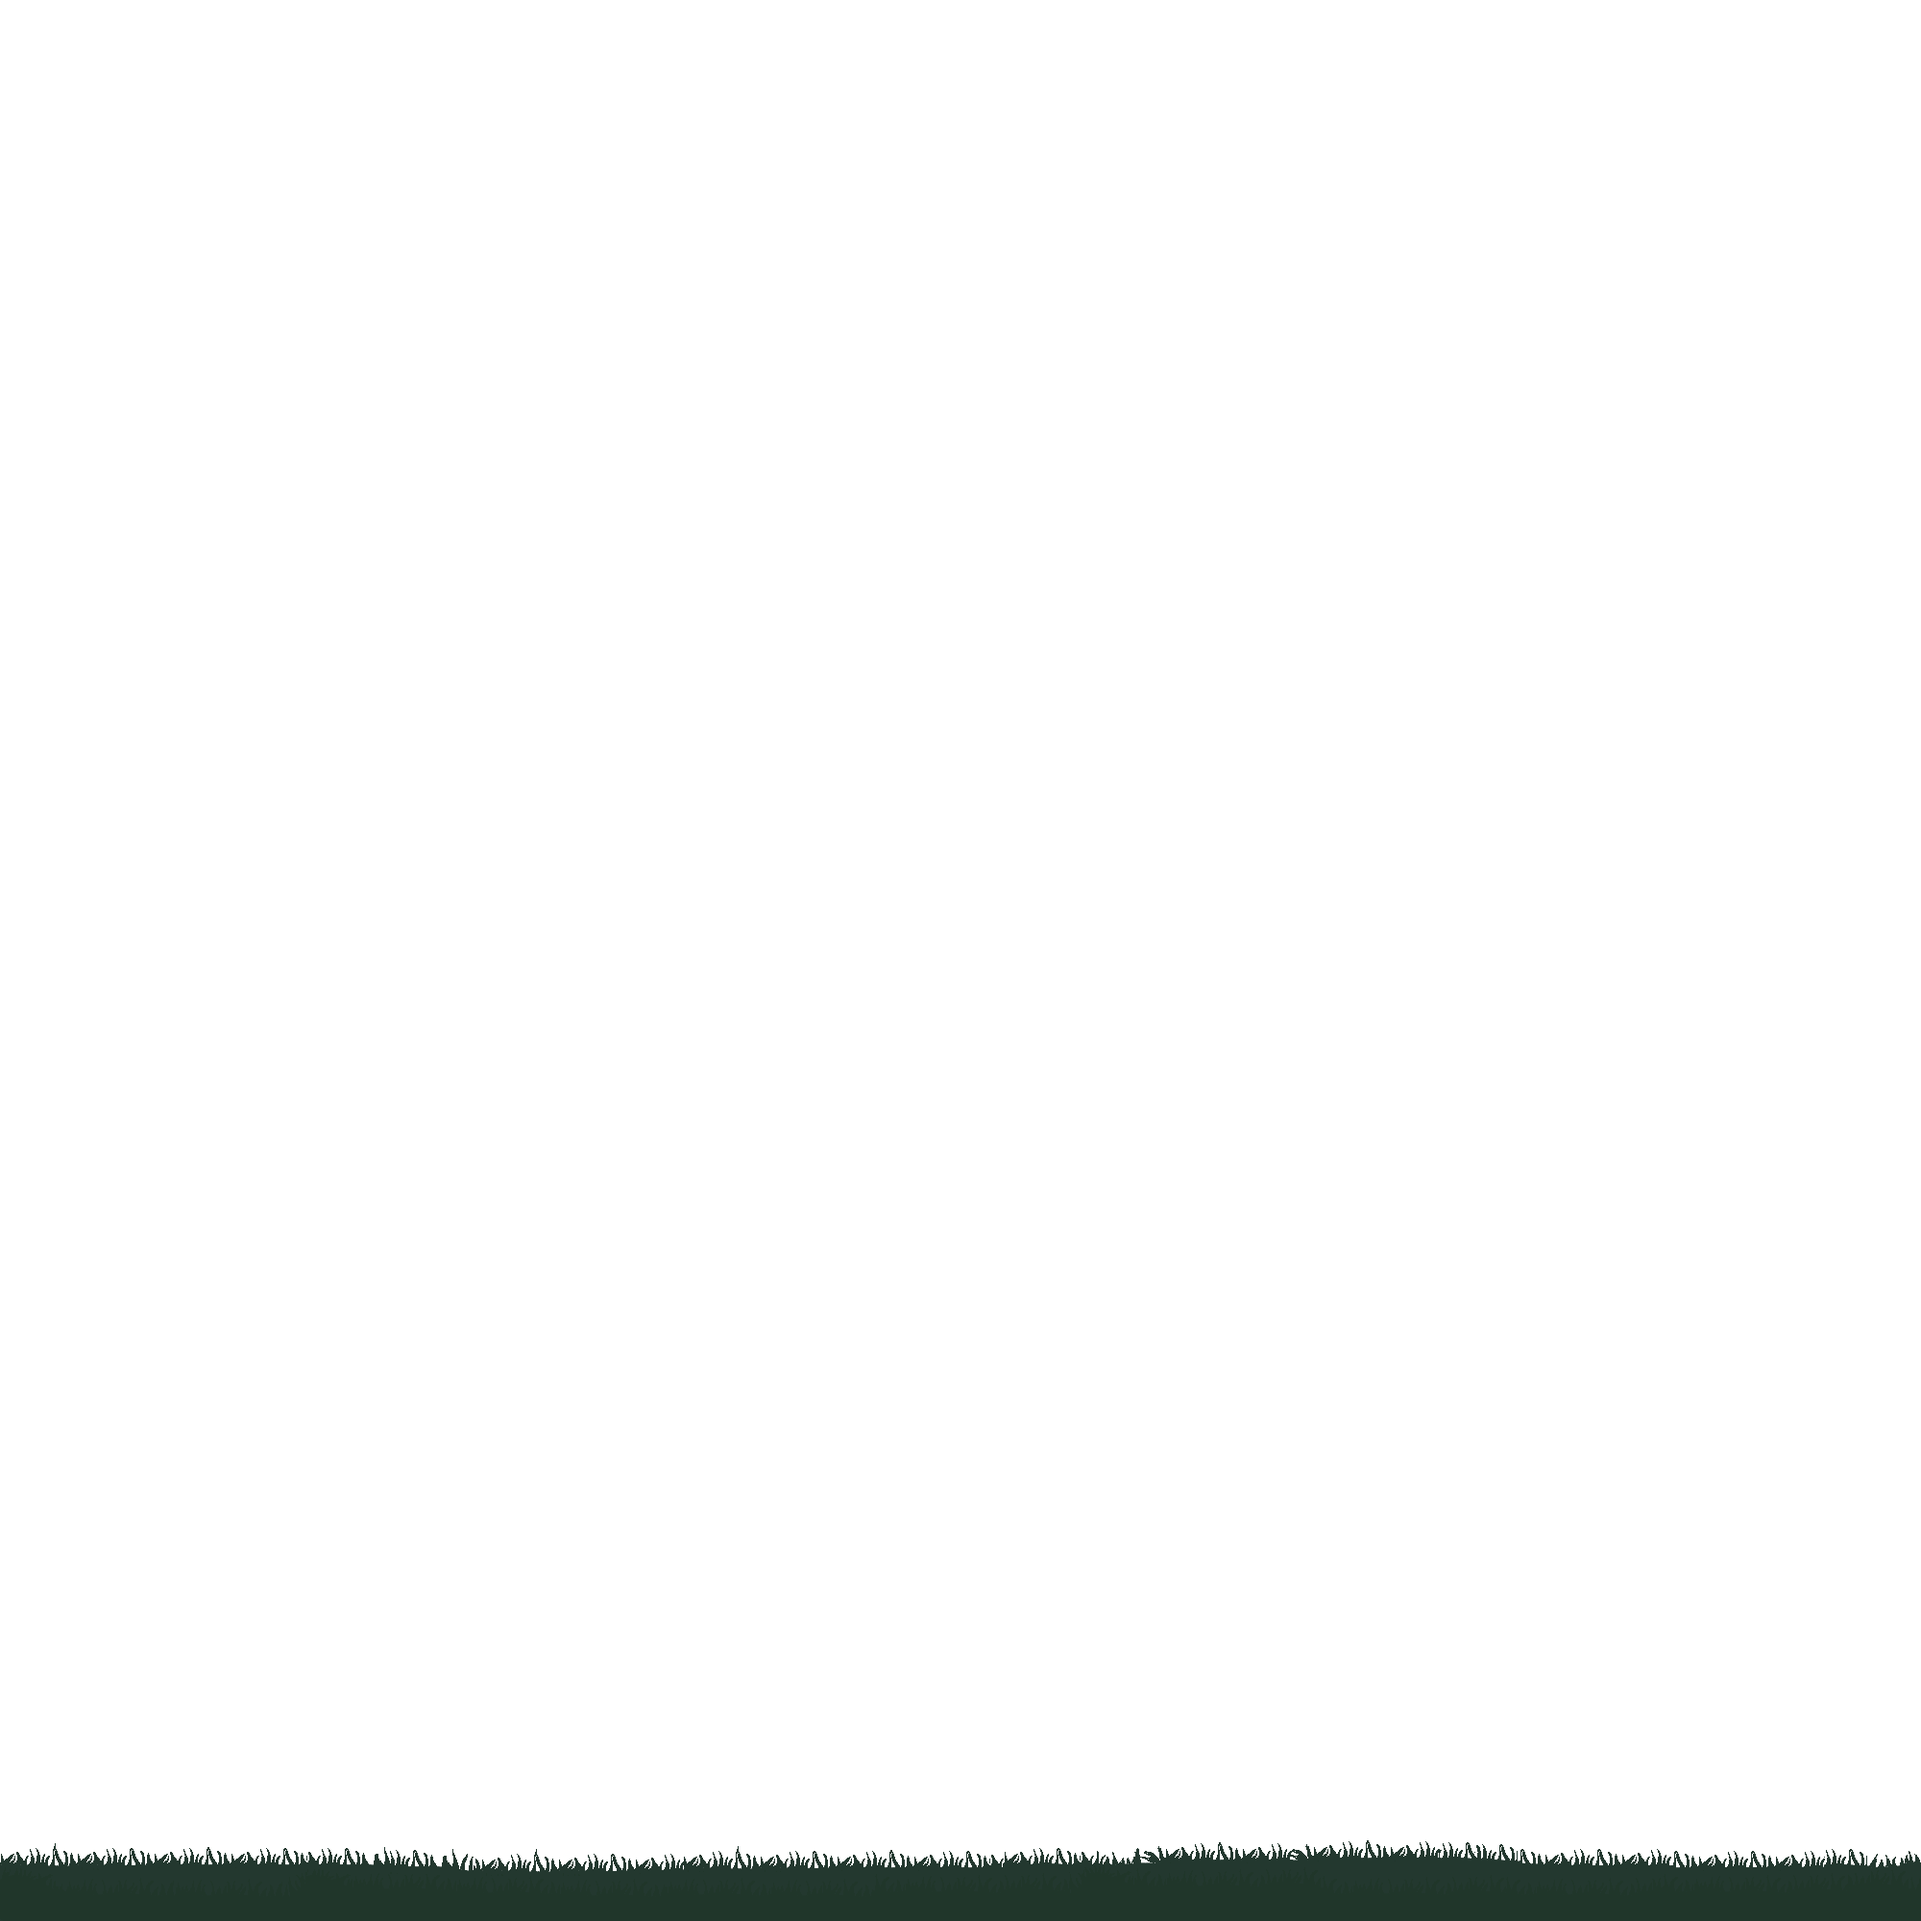
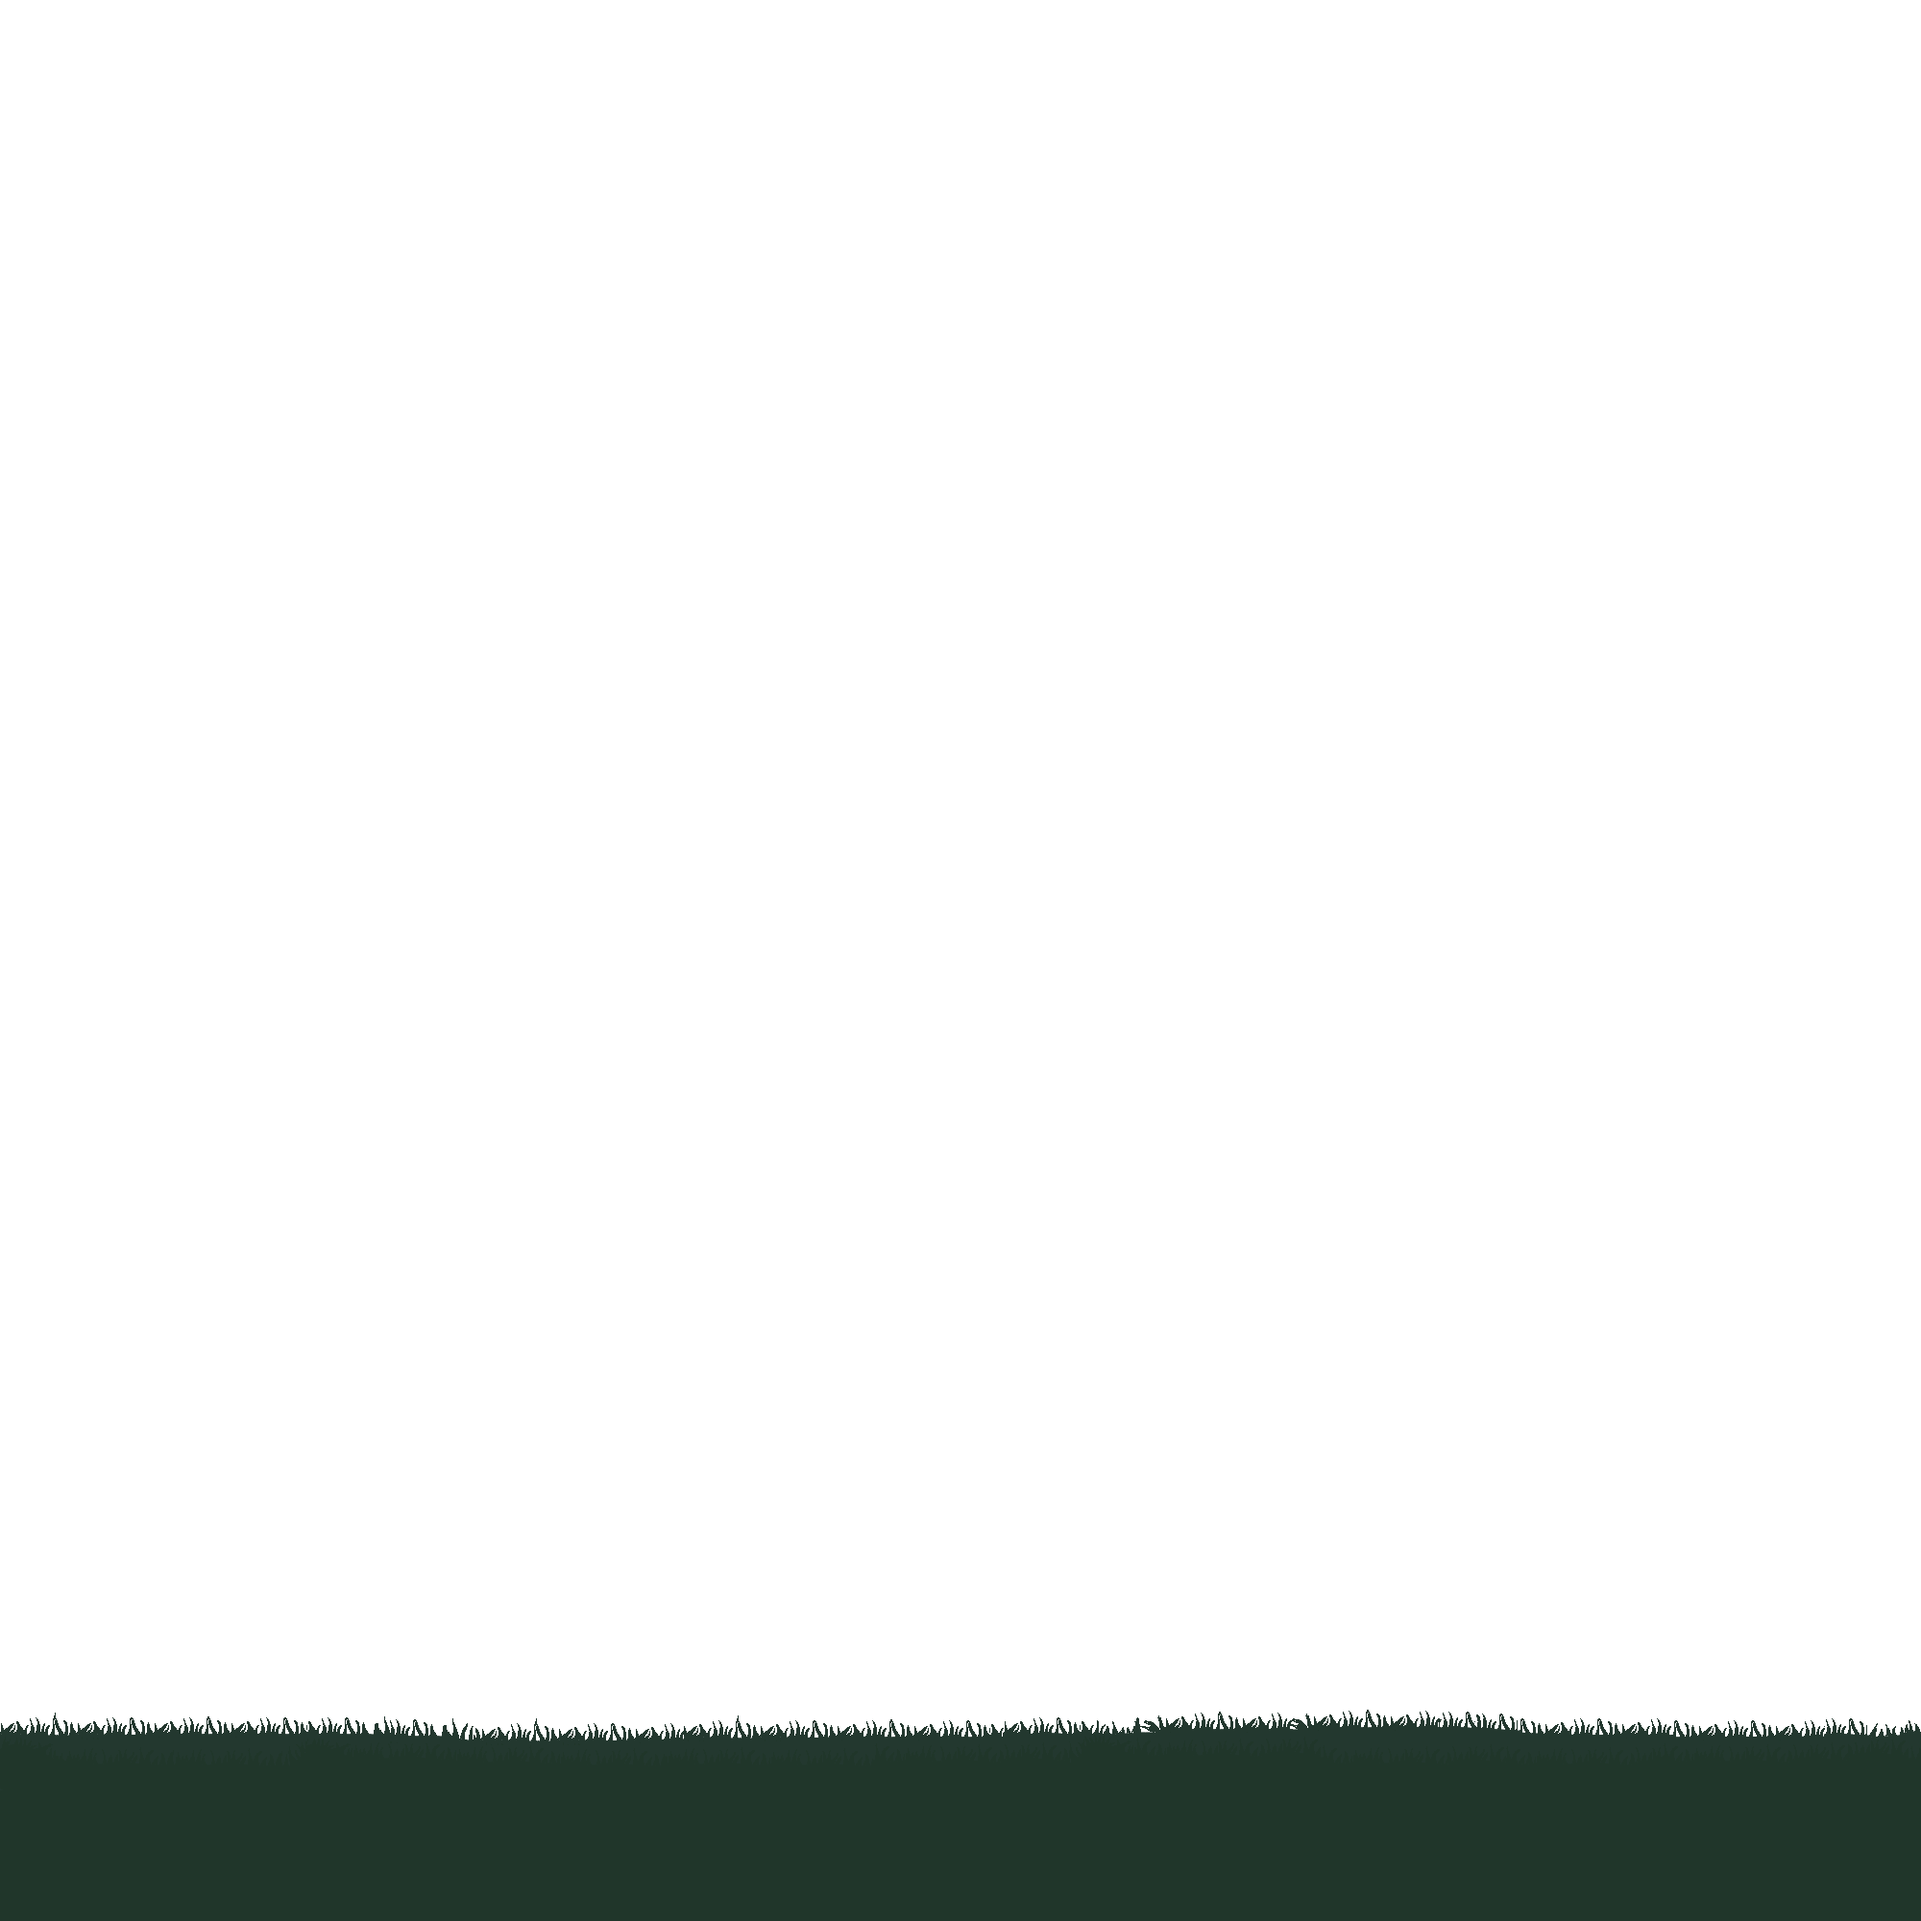
More slight improvements to the menu background

Changed region(s): [[0.0, 0.868, 1.0, 0.992]]

diff --git a/src/components/MainMenu.vue b/src/components/MainMenu.vue
@@ -161,7 +161,7 @@ export default {
     height: 100%;
     width: 100%;
     position: absolute;
-    top: 0;
+    top: 150px;
     background-size: 3000px;
   }
 
@@ -199,7 +199,7 @@ export default {
     left: 0;
     background: no-repeat bottom left url('./../assets/menu/cross_grave.png');
     position: absolute;
-    height: 50%;
+    height: 100%;
     width: 100%;
     margin-left: 5%;
     background-size: 350px;
